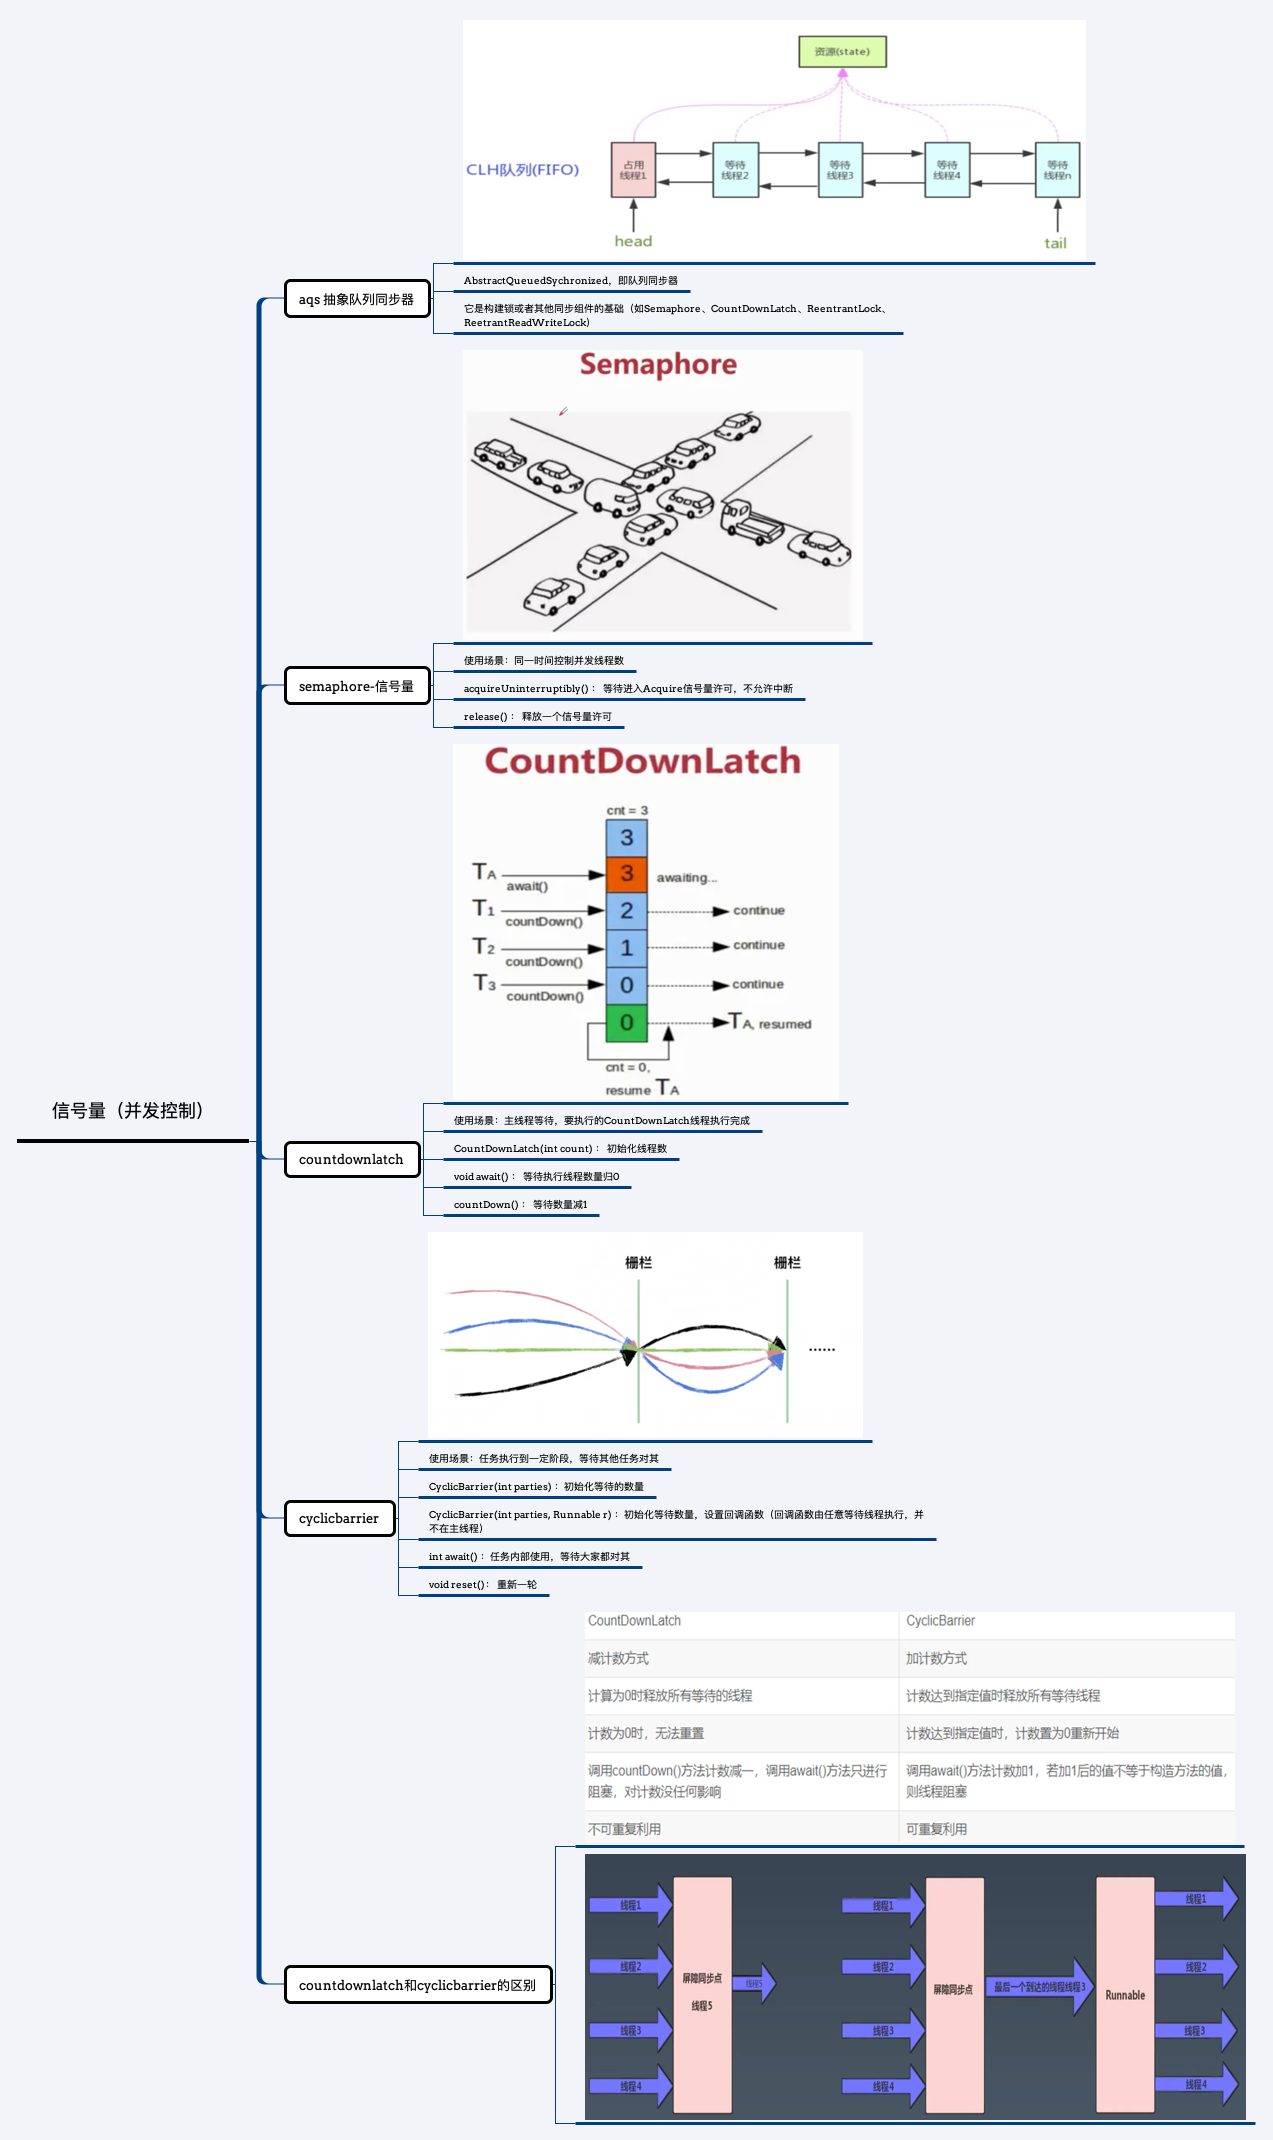
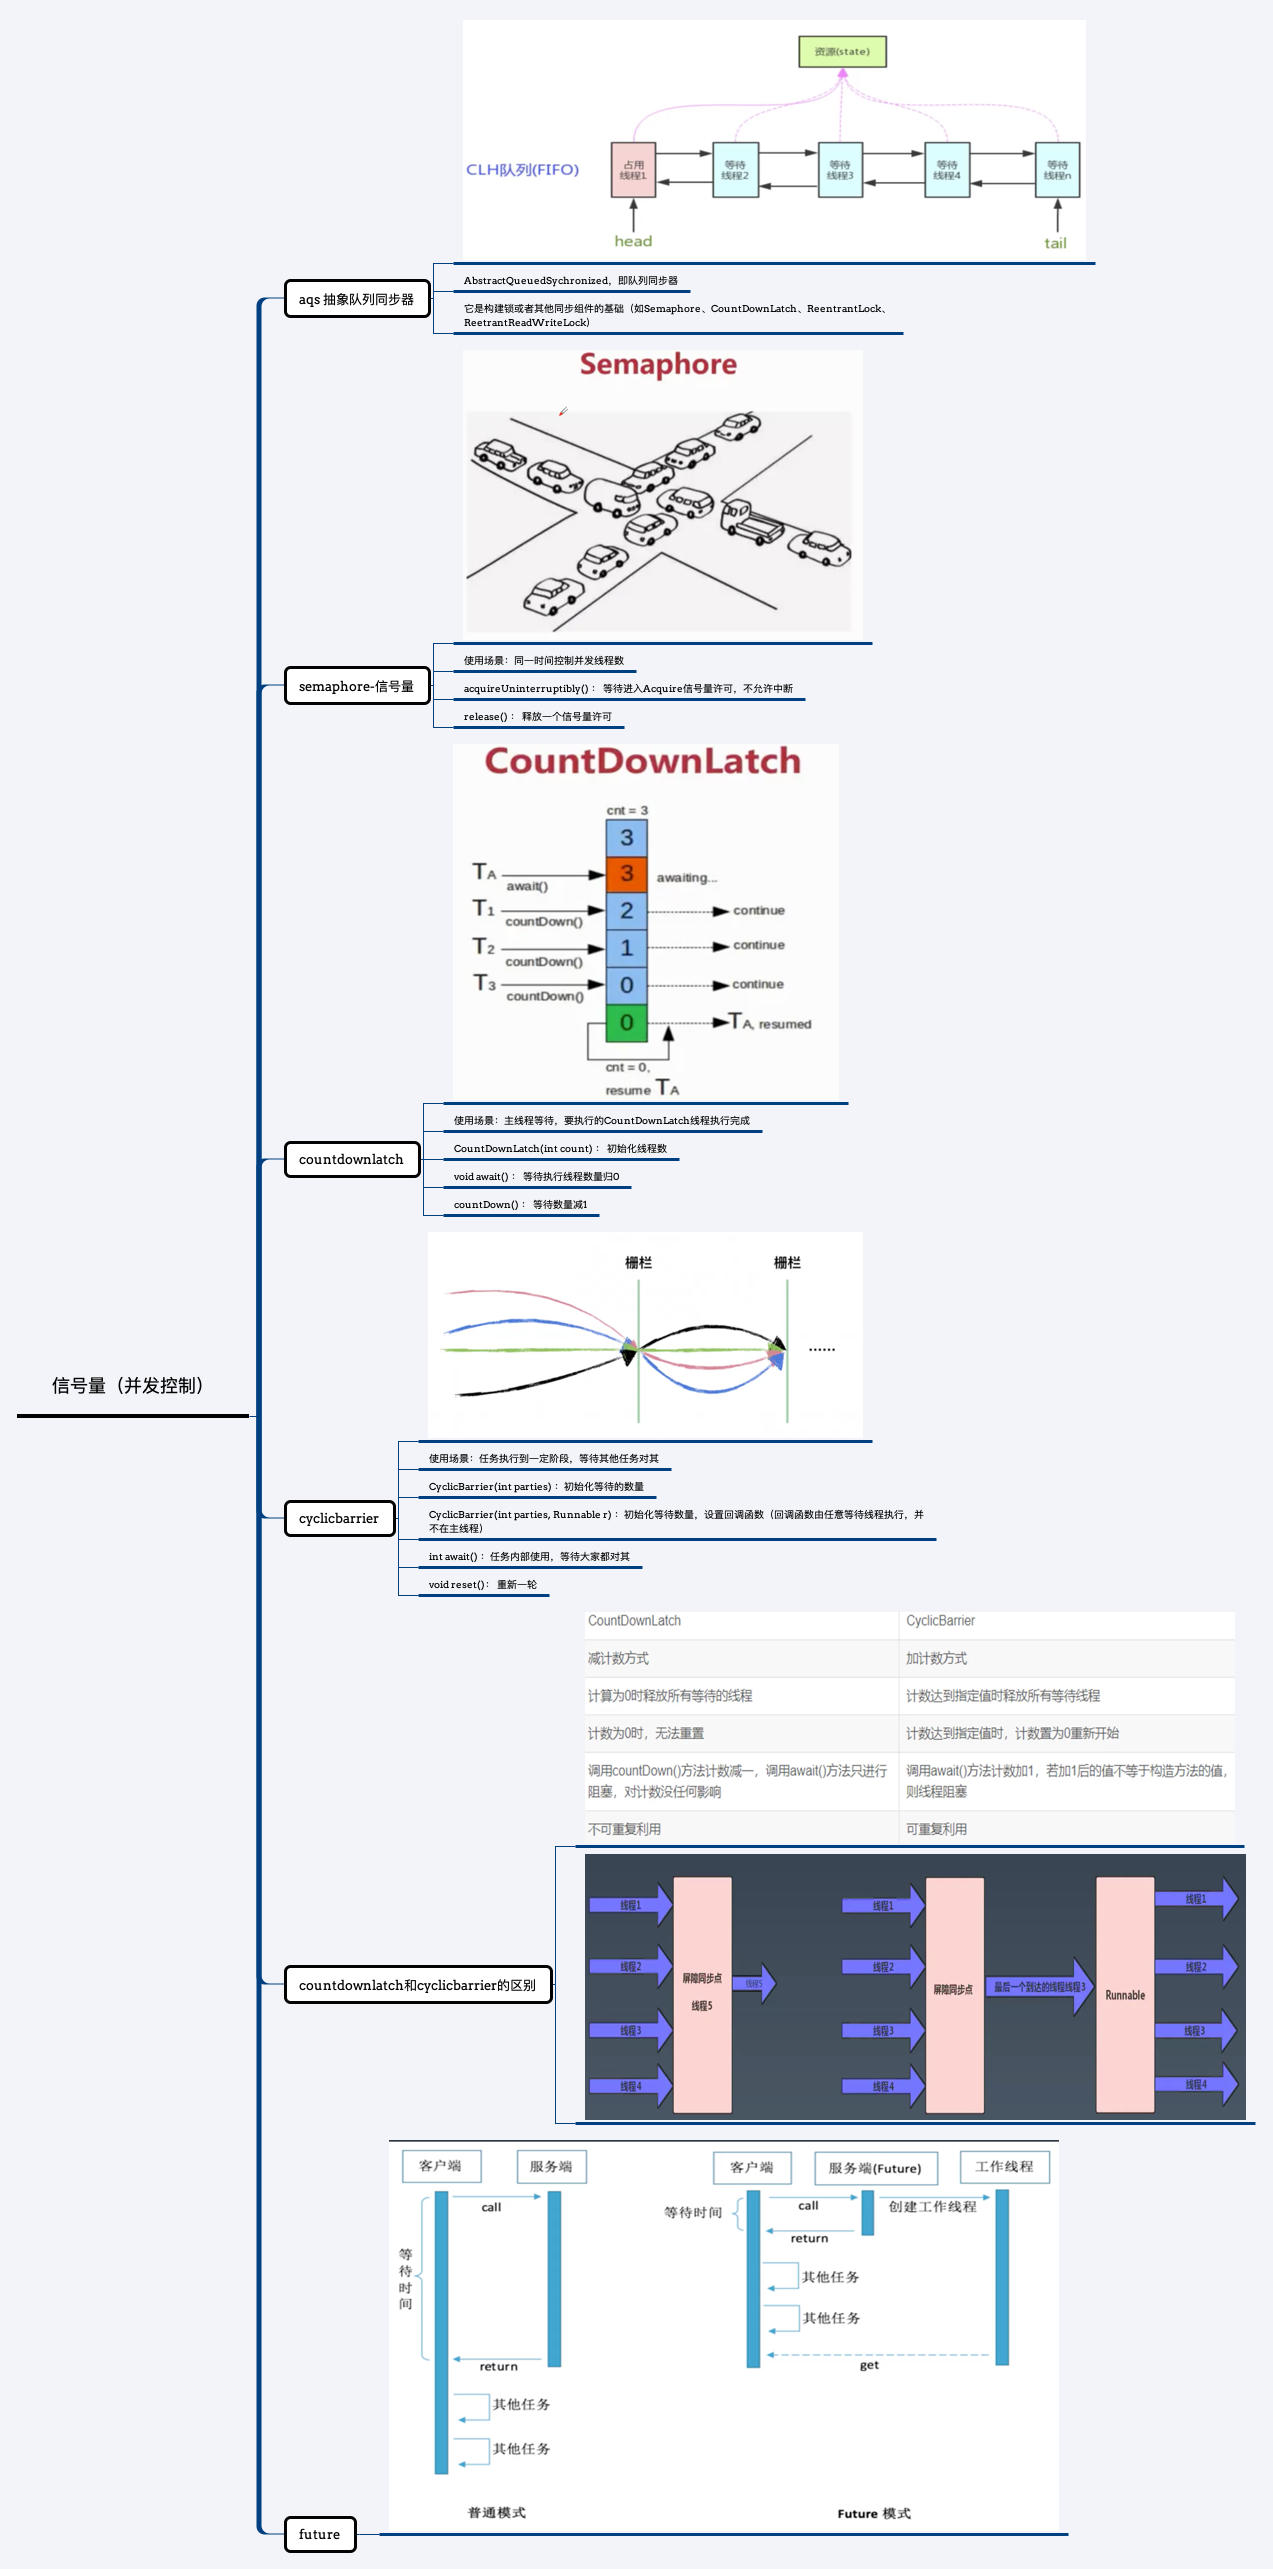
add : Future，FutureTask，CompletableFuture

Changed region(s): [[0.0306, 0.0, 0.9804, 1.0], [0.2145, 0.9869, 0.2757, 1.0], [0.1838, 0.9252, 0.2145, 0.9869]]

diff --git a/Week_04/demo/future/CompletableFutureDemo.java b/Week_04/demo/future/CompletableFutureDemo.java
@@ -1,0 +1,99 @@
+package Week_04.demo.future;
+
+import java.util.concurrent.CompletableFuture;
+
+/**
+ * Created by ipipman on 2020/11/9.
+ *
+ * @version V1.0
+ * @Package Week_04.demo.future
+ * @Description: (用一句话描述该文件做什么)
+ * @date 2020/11/9 8:48 下午
+ */
+public class CompletableFutureDemo {
+
+    public static void main(String[] args) {
+
+        // 1.变换结果
+        System.out.println("=====>1.变换结果");
+        String result1 = CompletableFuture.supplyAsync(() -> {
+            return "Hello ";
+        }).thenApplyAsync(v -> v + "world").join();
+        System.out.println(result1);
+
+        // 2.消费
+        CompletableFuture.supplyAsync(() -> {
+            return "Hello ";
+        }).thenAccept(v -> {
+            System.out.println("=====>2.消费");
+            System.out.println("consumer: " + v);
+        });
+
+        // 3.组合
+        System.out.println("=====>3.组合");
+        String result3 = CompletableFuture.supplyAsync(() -> {
+            try {
+                Thread.sleep(1000);
+            } catch (InterruptedException e) {
+                e.printStackTrace();
+            }
+            return "Hello";
+        }).thenCombine(CompletableFuture.supplyAsync(() -> {
+            try {
+                Thread.sleep(2000);
+            } catch (InterruptedException e) {
+                e.printStackTrace();
+            }
+            return "world";
+        }), (s1, s2) -> {
+            return s1 + " " + s2;
+        }).join();
+        System.out.println("thenCombine:" + result3);
+
+        CompletableFuture.supplyAsync(() -> "Hello, java course.")
+                .thenApply(String::toUpperCase).thenCompose(s -> CompletableFuture.supplyAsync(s::toLowerCase)).thenAccept(v -> {
+            System.out.println("thenCompose:" + v);
+        });
+
+        // 4.竞争
+        System.out.println("=====>4.竞争");
+        String result4 = CompletableFuture.supplyAsync(() -> {
+            try {
+                Thread.sleep(100);
+            } catch (InterruptedException e) {
+                e.printStackTrace();
+            }
+            return "Hi Boy";
+        }).applyToEither(CompletableFuture.supplyAsync(() -> {
+            try {
+                Thread.sleep(300);
+            } catch (InterruptedException e) {
+                e.printStackTrace();
+            }
+            return "Hi Girl";
+        }), (s) -> {
+            return s;
+        }).join();
+        System.out.println(result4);
+
+        // 5.补偿异常
+        System.out.println("=====>5.补偿异常");
+        String result5 = CompletableFuture.supplyAsync(() -> {
+            try {
+                Thread.sleep(100);
+            } catch (InterruptedException e) {
+                e.printStackTrace();
+            }
+            if (true) {
+                throw new RuntimeException("exception test!");
+            }
+
+            return "Hi Boy";
+        }).exceptionally(e -> {
+            System.out.println(e.getMessage());
+            return "Hello world!";
+        }).join();
+        System.out.println(result5);
+
+    }
+}

diff --git a/Week_04/demo/future/FutureDemo.java b/Week_04/demo/future/FutureDemo.java
@@ -1,0 +1,31 @@
+package Week_04.demo.future;
+
+import java.util.Random;
+import java.util.concurrent.*;
+
+/**
+ * Created by ipipman on 2020/11/9.
+ *
+ * @version V1.0
+ * @Package Week_04.demo.future
+ * @Description: (用一句话描述该文件做什么)
+ * @date 2020/11/9 8:41 下午
+ */
+public class FutureDemo {
+
+    public static void main(String[] args) {
+        ExecutorService executorService = Executors.newFixedThreadPool(5);
+        Future<Integer> result = executorService.submit(new Callable<Integer>() {
+            @Override
+            public Integer call() throws Exception {
+                return new Random().nextInt();
+            }
+        });
+        executorService.shutdown();
+        try {
+            System.out.println(result.get());
+        } catch (ExecutionException | InterruptedException e) {
+            e.printStackTrace();
+        }
+    }
+}

diff --git a/Week_04/demo/future/FutureTaskDemo.java b/Week_04/demo/future/FutureTaskDemo.java
@@ -1,0 +1,33 @@
+package Week_04.demo.future;
+
+import java.util.Random;
+import java.util.concurrent.*;
+
+/**
+ * Created by ipipman on 2020/11/9.
+ *
+ * @version V1.0
+ * @Package Week_04.demo.future
+ * @Description: (用一句话描述该文件做什么)
+ * @date 2020/11/9 8:44 下午
+ */
+public class FutureTaskDemo {
+
+    public static void main(String[] args) {
+        FutureTask<Integer> task = new FutureTask<>(new Callable<Integer>() {
+            @Override
+            public Integer call() throws Exception {
+                return new Random().nextInt();
+            }
+        });
+        new Thread(task).start();
+
+        try {
+            System.out.println(task.get());
+        } catch (ExecutionException | InterruptedException e) {
+            e.printStackTrace();
+        }
+    }
+
+
+}
